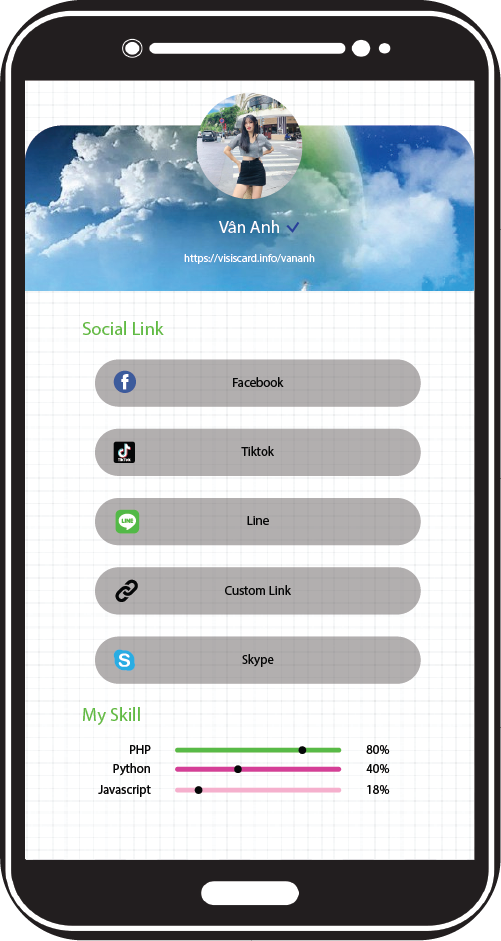
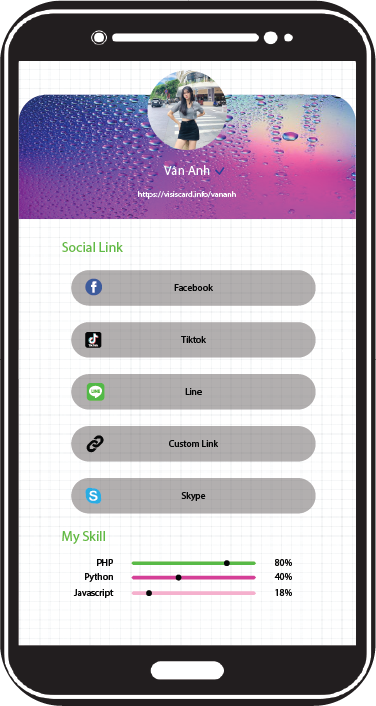
fix theme change

diff --git a/includes/head.html b/includes/head.html
@@ -2,8 +2,8 @@
 <meta name="viewport" content="width=device-width, initial-scale=1, shrink-to-fit=no">
 <meta name="description" content="Smart Card">
 <meta name="author" content="Lv Quy">
-<link rel="preconnect" href="https://fonts.gstatic.com">
-<link href="https://fonts.googleapis.com/css2?family=Open+Sans:wght@300;400;600;700;800&display=swap" rel="stylesheet">
+<!-- <link rel="preconnect" href="https://fonts.gstatic.com"> -->
+<!-- <link href="https://fonts.googleapis.com/css2?family=Open+Sans:wght@300;400;600;700;800&display=swap" rel="stylesheet"> -->
 <!--    bootstrap icon-->
 <link rel="stylesheet" href="https://cdn.jsdelivr.net/npm/bootstrap-icons@1.5.0/font/bootstrap-icons.css">
 <!-- Bootstrap core CSS -->

diff --git a/profile.php b/profile.php
@@ -182,6 +182,96 @@
                                         </div>
                                     </td>
                                 </tr>
+                                <tr>
+                                    <td>
+                                        <div class="col-6 mt-5">
+                                            <label>
+                                                <img src="static/images/theme/screen-9.png" onclick="change_theme(9)">
+                                                <input type="radio" id="theme_9" name = "theme">
+                                            </label>
+                                        </div>
+                                    </td>
+                                    <td>
+                                        <div class="col-6 mt-5">
+                                            <label>
+                                                <img src="static/images/theme/screen-10.png" onclick="change_theme(10)">
+                                                <input type="radio"  id="theme_10" name = "theme">
+                                            </label>
+                                        </div>
+                                    </td>
+                                </tr>
+                                <tr>
+                                    <td>
+                                        <div class="col-6 mt-5">
+                                            <label>
+                                                <img src="static/images/theme/screen-11.png" onclick="change_theme(11)">
+                                                <input type="radio" id="theme_11" name = "theme">
+                                            </label>
+                                        </div>
+                                    </td>
+                                    <td>
+                                        <div class="col-6 mt-5">
+                                            <label>
+                                                <img src="static/images/theme/screen-12.png" onclick="change_theme(12)">
+                                                <input type="radio"  id="theme_12" name = "theme">
+                                            </label>
+                                        </div>
+                                    </td>
+                                </tr>
+                                <tr>
+                                    <td>
+                                        <div class="col-6 mt-5">
+                                            <label>
+                                                <img src="static/images/theme/screen-13.png" onclick="change_theme(13)">
+                                                <input type="radio" id="theme_13" name = "theme">
+                                            </label>
+                                        </div>
+                                    </td>
+                                    <td>
+                                        <div class="col-6 mt-5">
+                                            <label>
+                                                <img src="static/images/theme/screen-14.png" onclick="change_theme(14)">
+                                                <input type="radio"  id="theme_14" name = "theme">
+                                            </label>
+                                        </div>
+                                    </td>
+                                </tr>
+                                <tr>
+                                    <td>
+                                        <div class="col-6 mt-5">
+                                            <label>
+                                                <img src="static/images/theme/screen-15.png" onclick="change_theme(15)">
+                                                <input type="radio" id="theme_15" name = "theme">
+                                            </label>
+                                        </div>
+                                    </td>
+                                    <td>
+                                        <div class="col-6 mt-5">
+                                            <label>
+                                                <img src="static/images/theme/screen-16.png" onclick="change_theme(16)">
+                                                <input type="radio"  id="theme_16" name = "theme">
+                                            </label>
+                                        </div>
+                                    </td>
+                                </tr>
+                                <tr>
+                                    <td>
+                                        <div class="col-6 mt-5">
+                                            <label>
+                                                <img src="static/images/theme/screen-17.png" onclick="change_theme(17)">
+                                                <input type="radio" id="theme_17" name = "theme">
+                                            </label>
+                                        </div>
+                                    </td>
+                                    <td>
+                                        <div class="col-6 mt-5">
+                                            <label>
+                                                <img src="static/images/theme/screen-18.png" onclick="change_theme(18)">
+                                                <input type="radio"  id="theme_18" name = "theme">
+                                            </label>
+                                        </div>
+                                    </td>
+                                </tr>
                                 
                             </table>
                         </div>

diff --git a/ajax_process/edit.php b/ajax_process/edit.php
@@ -266,40 +266,91 @@ require_once("../includes/db.php");
                 break;
             case 2:
                 // $top_bg_img = 'linear-gradient(green, yellow)';
-                $top_bg_img = 'cover-2.jpg';
-                $top_bg_color = 'white';
+                $top_bg_img = '';
+                $top_bg_color = '#444343';
                 $top_text_color = 'white';
                 break;
             case 3:
-                $top_bg_img = 'cover-3.jpg';
+                $top_bg_img = 'cover-3.png';
                 $top_bg_color = 'white';
-                $top_text_color = 'white';
+                $top_text_color = 'blue';
                 break;
             case 4:
-                $top_bg_img = 'cover-4.jpg';
+                $top_bg_img = 'cover-4.png';
                 $top_bg_color = 'white';
                 $top_text_color = 'white';
                 break;
             case 5:
-                $top_bg_img = 'cover-5.jpg';
+                $top_bg_img = 'cover-5.png';
                 $top_bg_color = 'white';
                 $top_text_color = 'white';
                 break;
             case 6:
-                $top_bg_img = 'cover-6.jpg';
+                $top_bg_img = 'cover-6.png';
                 $top_bg_color = 'white';
                 $top_text_color = 'white';
                 break;
             case 7:
-                $top_bg_img = 'cover-7.jpg';
-                $top_bg_color = 'white';
-                $top_text_color = 'red';
+                $top_bg_img = 'cover-7.png';
+                $top_bg_color = 'black';
+                $top_text_color = 'white';
                 break;
             case 8:
-                $top_bg_img = 'cover-8.jpg';
+                $top_bg_img = 'cover-8.png';
+                $top_bg_color = 'black';
+                $top_text_color = 'white';
+                break;
+            case 9:
+                $top_bg_img = 'cover-9.png';
+                $top_bg_color = 'black';
+                $top_text_color = 'white';
+                break;
+            case 10:
+                $top_bg_img = 'cover-10.png';
+                $top_bg_color = 'black';
+                $top_text_color = 'white';
+                break;
+            case 11:
+                $top_bg_img = 'cover-11.png';
+                $top_bg_color = 'white';
+                $top_text_color = 'black';
+                break;
+            case 12:
+                $top_bg_img = 'cover-12.png';
+                $top_bg_color = 'black';
+                $top_text_color = 'white';
+                break;
+            case 13:
+                $top_bg_img = 'cover-13.png';
+                $top_bg_color = 'black';
+                $top_text_color = 'white';
+                break;
+            case 14:
+                $top_bg_img = 'cover-14.png';
+                $top_bg_color = 'black';
+                $top_text_color = 'white';
+                break;
+            case 15:
+                $top_bg_img = 'cover-15.png';
+                $top_bg_color = 'black';
+                $top_text_color = 'white';
+                break;
+            case 16:
+                $top_bg_img = 'cover-16.png';
                 $top_bg_color = 'white';
                 $top_text_color = 'red';
                 break;
+            case 17:
+                $top_bg_img = 'cover-17.png';
+                $top_bg_color = 'black';
+                $top_text_color = 'white';
+                break;
+            case 18:
+                $top_bg_img = 'cover-18.png';
+                $top_bg_color = 'black';
+                $top_text_color = 'white';
+                break;
+                
               default:
                 $top_bg_img = '';
                 $top_bg_color = 'white';

diff --git a/public_profile.php b/public_profile.php
@@ -144,13 +144,13 @@ require('includes/db.php');
 			<div class="col-12 main-box">
 				<div class="container mt-2">
 					<div class="social">
-						<h4 class="text-dark">Social Link</h4>
+						<h4 class="text-dark">Liên kết</h4>
 						<span id="load_social"></span>
 						<hr>
 					</div>
 					
 					<div class="coins">
-						<h4 class="text-dark">Coins</h4>
+						<h4 class="text-dark">Ví điện tử</h4>
 						
 						<span id="load_coins">
 						</span>
@@ -158,7 +158,7 @@ require('includes/db.php');
 					</div>
 					
 					<div class="skill">
-						<h4 class="text-dark">My Skill</h4>
+						<h4 class="text-dark">Kỹ năng</h4>
 						<div class="row skill-list">
 							<table>
 								<tr>
@@ -180,19 +180,19 @@ require('includes/db.php');
 	<footer>
 		<div class="container pb-0">
 			<div class="row">
-				<div class="col-6 col-md-4 footer-1">
-					<p> <a href="." title="Home"><i class="bi bi-house"></i> Home</a> </p>
-					<p> <a href="./profile.php"><i class="bi bi-person"></i> Edit Profile</a> </p>
+				<div class="col-12 col-md-4 footer-1">
+					<p> <a href="." title="Home"><i class="bi bi-house"></i> Trang chủ</a> </p>
+					<p> <a href="./profile.php"><i class="bi bi-person"></i> Sửa thông tin</a> </p>
 					<p> <a href="./register.php"><i class="bi bi-cursor"></i> Dùng thử miễn phí</a> </p>
 					<hr>
 				</div>
-				<div class="col-6 col-md-4 footer-2">
-					<p> <a href="./#order"><i class="bi bi-cart"></i> Đặt làm thẻ ngay</a> </p>
-					<p><a href="https://in24h.com.vn" target="_blank" title="in ốp lưng theo yêu cầu"><i class="bi bi-cart"></i> In ốp lưng theo yêu cầu</a></p>
-					<p><i class="bi bi-at"></i> vncard.info là một sản phẩm của in24h</p>
+				<div class="col-12 col-md-4 footer-2">
+					<p> <a href="./#order"><i class="bi bi-cart"></i> Đặt mua ngay</a> </p>
+					<p><a href="https://in24h.com.vn" target="_blank" title="in ốp lưng theo yêu cầu"><i class="bi bi-cart"></i> In ốp lưng</a></p>
+					<p>vncard.info thuộc sở hữu của in24h</p>
 					<hr>
 				</div>
-				<div class="col-6 col-md-4 footer-3">
+				<div class="col-12 col-md-4 footer-3">
 					<p><a href="https://maps.google.com/?q=in24h Bình hòa 24, Thuận An, Bình Dương" target="_blank">
 						<i class="bi bi-geo-alt" title="Mở google map"> Bình hòa 24, Thuận An, Bình Dương</i>
 					</a></p>
